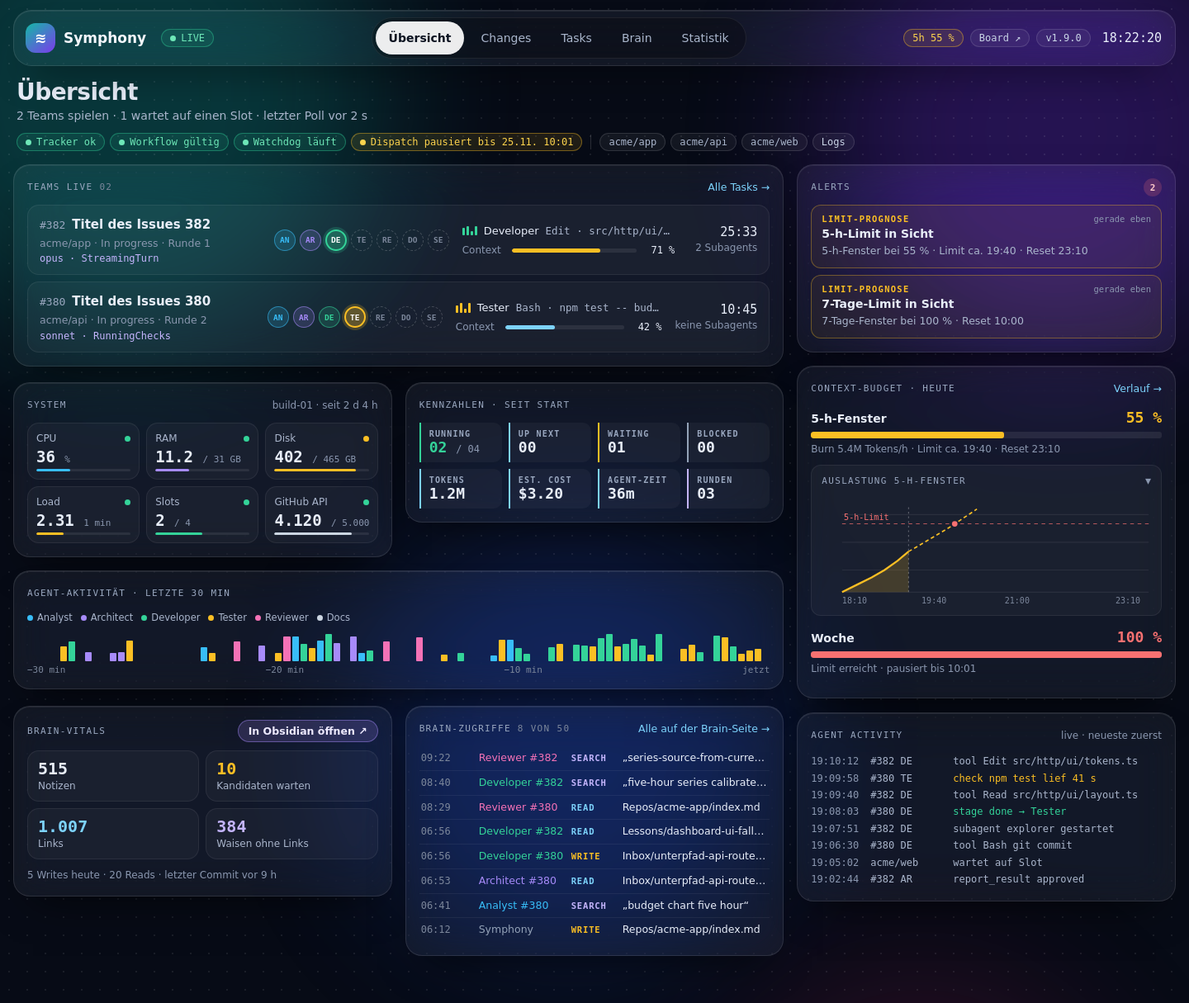
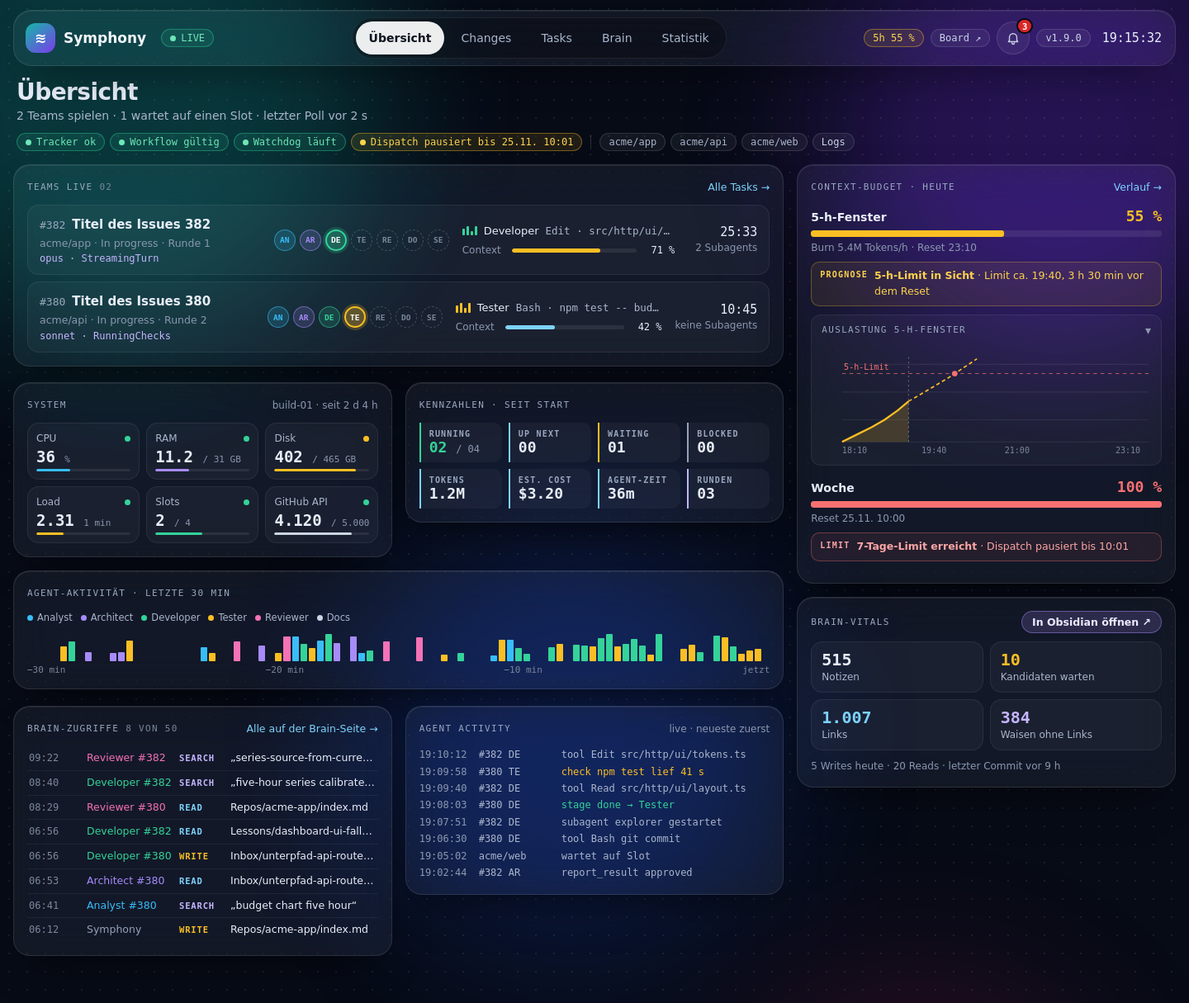
Konzept Masonry: Limit-Prognose im Context-Budget, Alerts hinter Glocke
Die Alerts-Karte der Übersicht entfällt. Die Limit-Prognosen (5-h- und
7-Tage-Limit in Sicht) stehen direkt beim jeweiligen Fenster im
Context-Budget, statt dort und als Alert doppelt zu erscheinen. Alle
anderen Alerts zeigt eine Glocke in der Kopfleiste auf jeder Seite an;
ein Klick öffnet ein Modal mit aktiven und zuletzt erledigten Alerts.

Mockup, Vorschaubilder (inkl. offenem Modal, Desktop und 390 px) und
Konzept (Version 2, neuer Bereich B7) sind angepasst.

diff --git a/docs/concepts/dashboard-masonry/mockup.html b/docs/concepts/dashboard-masonry/mockup.html
@@ -8,7 +8,8 @@
   Mockup A "Masonry-Raster", abgenommen am 2026-11-24. Gehört zu konzept.md im selben Ordner.
   Eigenständig, ohne Build. Farben und Glas-Styles stammen aus src/http/ui/palette.ts, tokens.ts und layout.ts.
   Nur Demo-Daten (acme/*), keine echten Repositories, Kosten oder Hostnamen.
-  URL-Parameter: ?state=live|idle|calm (Startzustand), ?clean=1 (Mockup-Leiste ausblenden, für Vorschaubilder).
+  URL-Parameter: ?state=live|idle|calm (Startzustand), ?alerts=1 (Glocken-Modal offen), ?clean=1 (Mockup-Leiste ausblenden, für Vorschaubilder).
+  Version 2 (2026-11-24): Limit-Prognosen stehen im Context-Budget, alle anderen Alerts hinter der Glocke in der Kopfleiste.
 -->
 <style>
   :root {
@@ -124,14 +125,46 @@
   .team-time { font: 15px var(--mono); }
   .team-subs { font-size: 12px; color: var(--fg-3); }
 
-  /* Alerts */
+  /* Glocke in der Kopfleiste: Zahl der aktiven Alerts, rot sobald ein roter Alert dabei ist; wackelt, solange ungesehen */
+  .bell { position: relative; width: 40px; height: 40px; padding: 0; display: grid; place-items: center; border-radius: 999px; cursor: pointer;
+    color: var(--fg-chip); background: rgba(255, 255, 255, .05); border: 1px solid rgba(255, 255, 255, .12); }
+  .bell:hover { border-color: rgba(255, 255, 255, .24); color: var(--fg-strong); }
+  .bell:focus-visible { outline: 2px solid var(--link); outline-offset: 2px; }
+  .bell svg { width: 18px; height: 18px; }
+  .bell .n { position: absolute; top: -5px; right: -5px; min-width: 19px; height: 19px; padding: 0 5px; border-radius: 999px; display: grid; place-items: center;
+    font: 600 10.5px var(--mono); color: #fff; background: #dc2626; border: 2px solid var(--bg); }
+  .bell .n.amber { background: #d97706; }
+  .bell.unseen svg { animation: ring 2.4s ease-in-out infinite; transform-origin: 50% 10%; }
+  @keyframes ring { 0%, 86%, 100% { transform: rotate(0); } 89% { transform: rotate(14deg); } 93% { transform: rotate(-12deg); } 96% { transform: rotate(6deg); } }
+
+  /* Alerts-Modal (native <dialog>, Esc schließt, Fokus zurück auf die Glocke) */
+  dialog.alerts-modal { width: min(560px, calc(100vw - 2 * var(--edge))); max-height: min(80vh, 720px); padding: 0; color: var(--fg);
+    background: #0f1729; border: 1px solid rgba(255, 255, 255, .14); border-radius: 20px; box-shadow: 0 30px 80px -20px rgba(0, 0, 0, .9); }
+  dialog.alerts-modal::backdrop { background: rgba(3, 6, 14, .62); -webkit-backdrop-filter: blur(4px); backdrop-filter: blur(4px); }
+  .am-head { display: flex; align-items: center; justify-content: space-between; gap: 10px; padding: 16px 18px 10px; }
+  .am-head h2 { margin: 0; font-size: 17px; font-weight: 600; }
+  .am-close { font: 12px var(--mono); color: var(--fg); background: rgba(255, 255, 255, .06); border: 1px solid rgba(255, 255, 255, .14); border-radius: 999px; padding: 5px 12px; cursor: pointer; }
+  .am-body { padding: 0 18px 18px; overflow-y: auto; max-height: calc(min(80vh, 720px) - 64px); display: grid; gap: 14px; }
+  .am-sec { display: grid; gap: 8px; }
   .alerts { display: flex; flex-direction: column; gap: 8px; margin: 0; padding: 0; list-style: none; }
-  .alert { padding: 10px 12px; border-radius: 12px; border: 1px solid rgba(251, 191, 36, .35); background: rgba(251, 191, 36, .06); }
-  .alert .k { font: 600 10.5px var(--mono); letter-spacing: .12em; text-transform: uppercase; color: var(--amber); display: flex; justify-content: space-between; }
+  .alert { display: block; padding: 10px 12px; border-radius: 12px; color: inherit; border: 1px solid rgba(251, 191, 36, .35); background: rgba(251, 191, 36, .06); }
+  .alert:hover { text-decoration: none; background: rgba(251, 191, 36, .1); }
+  .alert.red { border-color: rgba(248, 113, 113, .42); background: rgba(248, 113, 113, .07); }
+  .alert.red .k span:first-child { color: var(--red-300); }
+  .alert.done { border-color: rgba(255, 255, 255, .08); background: rgba(255, 255, 255, .03); opacity: .8; }
+  .alert.done .k span:first-child { color: var(--fg-3); }
+  .alert .k { font: 600 10.5px var(--mono); letter-spacing: .12em; text-transform: uppercase; color: var(--amber); display: flex; justify-content: space-between; gap: 8px; }
   .alert .k span:last-child { color: var(--fg-3); letter-spacing: 0; text-transform: none; font-weight: 400; }
   .alert b { display: block; font-size: 14px; font-weight: 600; margin: 2px 0 1px; }
   .alert p { margin: 0; font-size: 12.5px; color: var(--fg-2); }
-  .badge-n { min-width: 22px; height: 22px; border-radius: 999px; display: grid; place-items: center; font: 600 11px var(--mono); color: #fecaca; background: rgba(248, 113, 113, .2); }
+  .am-foot { font-size: 12px; color: var(--fg-3); margin: 0; }
+
+  /* Limit-Prognose direkt im Context-Budget (früher eigene Alert-Karten) */
+  .fc { display: flex; align-items: flex-start; gap: 8px; margin-top: 4px; padding: 7px 10px; border-radius: 10px; font-size: 12.5px;
+    color: var(--amber-300); background: rgba(251, 191, 36, .08); border: 1px solid rgba(251, 191, 36, .3); }
+  .fc.red { color: var(--red-300); background: rgba(248, 113, 113, .08); border-color: rgba(248, 113, 113, .35); }
+  .fc b { font-weight: 600; }
+  .fc .fc-k { font: 600 10px var(--mono); letter-spacing: .12em; text-transform: uppercase; white-space: nowrap; padding-top: 2px; }
 
   /* Context-Budget */
   .bud { display: grid; gap: 4px; margin-bottom: 10px; }
@@ -207,7 +240,7 @@
     .acc .op { display: none; }
     .acc .note { grid-column: 1 / -1; padding-left: 64px; margin-top: -4px; }
   }
-  @media (prefers-reduced-motion: reduce) { .eq i { animation: none; height: 8px; } }
+  @media (prefers-reduced-motion: reduce) { .eq i { animation: none; height: 8px; } .bell.unseen svg { animation: none; } }
 </style>
 </head>
 <body>
@@ -224,6 +257,7 @@
   <button type="button" data-state="live" aria-pressed="true">2 Teams laufen</button>
   <button type="button" data-state="idle" aria-pressed="false">Idle</button>
   <button type="button" data-state="calm" aria-pressed="false">Alerts leer</button>
+  <button type="button" id="mock-bell">Glocke öffnen</button>
   <span class="sp" id="mock-info">–</span>
 </div>
 
@@ -235,7 +269,12 @@
       <a class="nv on" href="#" aria-current="page">Übersicht</a><a class="nv" href="#">Changes</a><a class="nv" href="#">Tasks</a><a class="nv" href="#">Brain</a><a class="nv" href="#">Statistik</a>
     </div></nav>
     <div class="meta">
-      <span class="chip amber">5h 55 %</span><span class="chip">Board ↗</span><span class="chip version">v1.9.0</span>
+      <span class="chip amber">5h 55 %</span><span class="chip">Board ↗</span>
+      <button type="button" class="bell unseen" id="bell" aria-haspopup="dialog" aria-controls="alerts-modal" aria-label="Alerts: 3 aktiv, davon 1 Fehler">
+        <svg viewBox="0 0 24 24" fill="none" stroke="currentColor" stroke-width="1.8" stroke-linecap="round" stroke-linejoin="round" aria-hidden="true"><path d="M6 16V11a6 6 0 1 1 12 0v5l1.5 2h-15z"/><path d="M10 20a2 2 0 0 0 4 0"/></svg>
+        <span class="n" id="bell-n">3</span>
+      </button>
+      <span class="chip version">v1.9.0</span>
       <span class="clock num" id="clock">19:10:20</span>
     </div>
   </header>
@@ -297,21 +336,13 @@
       <p class="empty" id="teams-empty" hidden><span class="dot" style="background:var(--gray)"></span>Kein Team spielt gerade · 0 Slots belegt · 0 in der Queue</p>
     </section>
 
-    <section class="g card" aria-labelledby="t-alerts">
-      <div class="card-head"><h2 class="lbl" id="t-alerts">Alerts</h2><span class="badge-n" id="alerts-n">2</span></div>
-      <ul class="alerts" id="alerts-list">
-        <li class="alert"><div class="k"><span>Limit-Prognose</span><span>gerade eben</span></div><b>5-h-Limit in Sicht</b><p>5-h-Fenster bei 55 % · Limit ca. 19:40 · Reset 23:10</p></li>
-        <li class="alert"><div class="k"><span>Limit-Prognose</span><span>gerade eben</span></div><b>7-Tage-Limit in Sicht</b><p>7-Tage-Fenster bei 100 % · Reset 10:00</p></li>
-      </ul>
-      <p class="empty" id="alerts-empty" hidden><span class="dot"></span>Alles ruhig</p>
-    </section>
-
     <section class="g card" aria-labelledby="t-budget">
       <div class="card-head"><h2 class="lbl" id="t-budget">Context-Budget · heute</h2><a href="#">Verlauf →</a></div>
       <div class="bud">
         <div class="bud-top"><b>5-h-Fenster</b><span class="num" style="color:var(--amber)">55 %</span></div>
         <div class="bar lg"><i style="width:55%;background:var(--amber)"></i></div>
-        <span class="muted">Burn 5.4M Tokens/h · Limit ca. 19:40 · Reset 23:10</span>
+        <span class="muted">Burn 5.4M Tokens/h · Reset 23:10</span>
+        <div class="fc" role="status"><span class="fc-k">Prognose</span><span><b>5-h-Limit in Sicht</b> · Limit ca. 19:40, 3 h 30 min vor dem Reset</span></div>
       </div>
       <details class="gi graph" open>
         <summary><span class="lbl">Auslastung 5-h-Fenster</span></summary>
@@ -330,7 +361,8 @@
       <div class="bud">
         <div class="bud-top"><b>Woche</b><span class="num" style="color:var(--red)">100 %</span></div>
         <div class="bar lg"><i style="width:100%;background:var(--red)"></i></div>
-        <span class="muted">Limit erreicht · pausiert bis 10:01</span>
+        <span class="muted">Reset 25.11. 10:00</span>
+        <div class="fc red" role="status"><span class="fc-k">Limit</span><span><b>7-Tage-Limit erreicht</b> · Dispatch pausiert bis 10:01</span></div>
       </div>
     </section>
 
@@ -412,6 +444,29 @@
   </main>
 </div>
 
+<dialog class="alerts-modal" id="alerts-modal" aria-labelledby="am-title">
+  <div class="am-head"><h2 id="am-title">Alerts</h2><button type="button" class="am-close" id="am-close">Esc ✕</button></div>
+  <div class="am-body">
+    <section class="am-sec" id="am-active" aria-labelledby="am-active-t">
+      <h3 class="lbl" id="am-active-t">Aktiv · 3</h3>
+      <ul class="alerts">
+        <li><a class="alert red" href="#"><div class="k"><span>Fehler</span><span>vor 2 min</span></div><b>Tracker</b><p>GitHub GraphQL: 502 Bad Gateway beim Board-Abruf</p></a></li>
+        <li><a class="alert" href="#"><div class="k"><span>needs-human</span><span>vor 18 min</span></div><b>acme/app#377 · Export als CSV</b><p>Nach 2 Review-Runden an dich übergeben.</p></a></li>
+        <li><a class="alert" href="#"><div class="k"><span>Kandidaten-Rückstau</span><span>—</span></div><b>27 Kandidaten warten auf Review</b><p>Rückstau ab 25 Kandidaten.</p></a></li>
+      </ul>
+    </section>
+    <p class="empty" id="am-empty" hidden><span class="dot"></span>Alles ruhig. Kein aktiver Alert.</p>
+    <section class="am-sec" aria-labelledby="am-done-t">
+      <h3 class="lbl" id="am-done-t">Zuletzt erledigt</h3>
+      <ul class="alerts">
+        <li><a class="alert done" href="#"><div class="k"><span>Model-Hold</span><span>17:20–18:05</span></div><b>Modell fable</b><p>fable pausiert · Limit bis 18:05</p></a></li>
+        <li><a class="alert done" href="#"><div class="k"><span>Write-Clash</span><span>16:02–16:40</span></div><b>Decisions/ledger-double-entry.md</b><p>Reviewer #12 wollte 3 min nach Developer #11 schreiben – abgewiesen.</p></a></li>
+      </ul>
+    </section>
+    <p class="am-foot">Limit-Prognosen stehen im Context-Budget, nicht hier.</p>
+  </div>
+</dialog>
+
 <script>
 (() => {
   const $ = (id) => document.getElementById(id);
@@ -463,10 +518,22 @@
     $('subtitle').textContent = idle ? '0 Teams spielen · 0 warten auf einen Slot · letzter Poll vor 2 s'
       : '2 Teams spielen · 1 wartet auf einen Slot · letzter Poll vor 2 s';
     const calm = s === 'calm';
-    $('alerts-list').hidden = calm; $('alerts-empty').hidden = !calm; $('alerts-n').hidden = calm;
+    $('am-active').hidden = calm; $('am-empty').hidden = !calm; $('bell-n').hidden = calm;
+    $('bell').classList.toggle('unseen', !calm);
+    $('bell').setAttribute('aria-label', calm ? 'Alerts: keine aktiven' : 'Alerts: 3 aktiv, davon 1 Fehler');
   }
   for (const b of document.querySelectorAll('[data-state]')) b.addEventListener('click', () => setState(b.dataset.state));
   setState(['live', 'idle', 'calm'].includes(params.get('state')) ? params.get('state') : 'live');
+
+  // Glocke: öffnet das Modal; danach gelten die aktiven Alerts als gesehen (kein Wackeln mehr, die Zahl bleibt).
+  const modal = $('alerts-modal');
+  const openAlerts = () => { if (!modal.open) modal.showModal(); $('bell').classList.remove('unseen'); };
+  $('bell').addEventListener('click', openAlerts);
+  $('mock-bell').addEventListener('click', openAlerts);
+  $('am-close').addEventListener('click', () => modal.close());
+  modal.addEventListener('click', (e) => { if (e.target === modal) modal.close(); });
+  modal.addEventListener('close', () => $('bell').focus());
+  if (params.get('alerts') === '1') openAlerts();
 
   // Uhr und Laufzeiten ticken wie beim Poll; die Karten bleiben dabei stehen.
   const pad = (n) => String(n).padStart(2, '0');

diff --git a/docs/concepts/dashboard-masonry/konzept.md b/docs/concepts/dashboard-masonry/konzept.md
@@ -1,16 +1,19 @@
 # Konzept: Übersicht in voller Breite mit Masonry-Raster
 
-Status: Mockup A abgenommen am 2026-11-24 · Version des Konzepts: 1
+Status: Mockup A abgenommen am 2026-11-24 · Version des Konzepts: 2 (Alerts-Glocke, Limit-Prognose im Context-Budget)
 
-Mockup (verbindliche Vorlage): [mockup.html](mockup.html) mit drei Zuständen (`?state=live|idle|calm`)
+Mockup (verbindliche Vorlage): [mockup.html](mockup.html) mit drei Zuständen (`?state=live|idle|calm`) und offenem
+Alerts-Modal (`?alerts=1`)
 
 | Vorschau | Datei |
 |---|---|
 | 2560 px, 6 Spalten | [preview-2560.png](preview-2560.png) |
 | 1920 px, 4 Spalten | [preview-1920.png](preview-1920.png) |
+| 1920 px, Alerts-Modal offen | [preview-1920-alerts.png](preview-1920-alerts.png) |
 | 1920 px, kein Team läuft | [preview-1920-idle.png](preview-1920-idle.png) |
 | 1440 px, 3 Spalten | [preview-1440.png](preview-1440.png) |
 | 390 px, 1 Spalte | [preview-390.png](preview-390.png) |
+| 390 px, Alerts-Modal offen | [preview-390-alerts.png](preview-390-alerts.png) |
 | Ist-Zustand v1.8.0 (Demo-Daten, 1920 px) | [ist-1920.png](ist-1920.png) |
 
 ## Ziel
@@ -30,9 +33,15 @@ Die Übersicht (`/`) nutzt die ganze Bildschirmbreite und wird deutlich kürzer:
 4. **Keine Doppelung:**
    - Ein laufendes Issue erscheint nur noch einmal, als Zeile in „Teams live“.
    - Der Abschnitt „Running“ mit den großen Agent-Karten entfällt.
+5. **Alerts hinter einer Glocke:**
+   - Die Alerts-Karte der Übersicht entfällt.
+   - Die Limit-Prognosen („5-h-Limit in Sicht“, „7-Tage-Limit in Sicht“) stehen direkt im Context-Budget beim
+     jeweiligen Fenster.
+   - Alle anderen Alerts zeigt eine Glocke in der Kopfleiste an, auf jeder Seite. Ein Klick öffnet ein Modal mit den
+     aktiven und den zuletzt erledigten Alerts.
 
 Messbar: Bei 1920×1080 und den Demo-Daten (`node scripts/demo.ts`) ist die Übersicht höchstens zwei Bildschirmhöhen
-hoch. Heute sind es 4465 px, das Mockup braucht 1071 px.
+hoch. Heute sind es 4465 px, das Mockup braucht unter 1000 px.
 
 Zielgruppe ist der Betreiber der Instanz (eine Person, Desktop zuerst, Handy muss funktionieren).
 
@@ -48,6 +57,8 @@ Gemessen auf der Live-Instanz bei 2560×1215 px:
 | Lücke unter Alerts | ≈ 340 px leer | `.ov-row` ist ein Flex-Wrap (`src/http/dashboard.ts:177`): Alerts 258 px neben Budget 598 px |
 | Teams live und Running | dasselbe Issue zweimal | `#teams-section` und `#running-section` (`src/http/dashboard.ts:241-257`), siehe `ist-1920.png` |
 | leere Abschnitte | volle Breite, je ≈ 90–200 px | „Kein Team spielt gerade“, „No agents running“, leerer Aktivitäts-Strip |
+| Limit-Prognose doppelt | Alert-Karte „5-h-Limit in Sicht“ neben dem Context-Budget, das dieselbe Prognose zeigt | `alerts()` in `src/http/alerts.ts:119-132` erzeugt die Art `budget` aus demselben `/api/v1/budget`-Bericht |
+| Alerts nur auf der Übersicht | Auf Changes, Tasks, Brain und Statistik ist kein Alert zu sehen | `#alerts` steht nur in `DASHBOARD_HTML` (`src/http/dashboard.ts:231`). Die Shell holt `/api/v1/budget` dagegen schon auf jeder Seite (`src/http/ui/layout.ts:356`). |
 
 Der Aufbau der Übersicht steht in `DASHBOARD_HTML` (`src/http/dashboard.ts:207-283`). Die Abschnitte kommen aus:
 
@@ -76,7 +87,13 @@ Die Seite pollt `/api/v1/state` alle 2 s. Die HTTP-Tests prüfen Quelltext-Strin
 | Masonry-Technik | Jede Karte belegt `grid-row-end: span ceil((Höhe + Abstand) / 4px)`. Ein `ResizeObserver` je Karte rechnet nur neu, wenn sich die Höhe ändert. `grid-auto-flow: row dense` füllt Löcher neben breiten Karten. **Nicht** CSS-`columns`: Dort springen Karten beim 2-s-Poll zwischen Spalten. **Nicht** `grid-template-rows: masonry`: In Chrome gibt es das nicht. |
 | Spalten | ergeben sich aus der Breite: 1 Spalte bei 390 px, 3 bei 1440 px, 4 bei 1920 px, 6 bei 2560 px |
 | Breite Karten | „Teams live“ und „Agent-Aktivität“ belegen ab 1220 px Viewport zwei Spalten (`.wide`). Alle anderen Karten sind eine Spalte breit. |
-| Reihenfolge | DOM-Reihenfolge = Lesereihenfolge wie im Mockup: Teams live, Alerts, Context-Budget, System, Kennzahlen, Agent-Aktivität, Brain-Vitals, Brain-Zugriffe, Agent activity. `dense` darf spätere kleine Karten in frühere Lücken ziehen. Fokus- und Screenreader-Reihenfolge folgen dem DOM. |
+| Reihenfolge | DOM-Reihenfolge = Lesereihenfolge wie im Mockup: Teams live, Context-Budget, System, Kennzahlen, Agent-Aktivität, Brain-Vitals, Brain-Zugriffe, Agent activity. `dense` darf spätere kleine Karten in frühere Lücken ziehen. Fokus- und Screenreader-Reihenfolge folgen dem DOM. |
+| Alerts-Karte | Die Karte `#alerts` entfällt auf der Übersicht. Die Ableitung `alerts(state, budget, brain)` in `alerts.ts` bleibt die eine Quelle für alle Alerts. |
+| Limit-Prognose | Alerts der Art `budget` erscheinen nicht mehr in der Alert-Liste. Ein Prognose-Hinweis steht im Context-Budget direkt unter dem Balken des jeweiligen Fensters: amber „Prognose · 5-h-Limit in Sicht · Limit ca. 19:40, 3 h 30 min vor dem Reset“, rot „Limit · 7-Tage-Limit erreicht · Dispatch pausiert bis 10:01“. Er erscheint unter derselben Bedingung wie heute der Alert (`w.alert === true` mit `forecast.eta`) bzw. wenn das Fenster 100 % erreicht hat. Mit `role="status"` liest ein Screenreader ihn vor. |
+| Glocke | Ein Glocken-Knopf in der Kopfleiste zwischen „Board“ und Version, auf **allen** Seiten der Shell. Die Zahl im Badge ist die Zahl der aktiven Alerts (ohne `budget`). Das Badge ist rot, sobald ein roter Alert (Fehler, Write-Clash) dabei ist, sonst amber. Ohne aktive Alerts gibt es kein Badge. Neue, noch ungesehene Alerts lassen die Glocke kurz wackeln. Nach dem Öffnen des Modals gelten sie als gesehen, gemerkt per `localStorage` über Art + Titel. `prefers-reduced-motion` schaltet das Wackeln ab. `aria-label` nennt Zahl und Art („Alerts: 3 aktiv, davon 1 Fehler“). |
+| Alerts-Modal | natives `<dialog>` mit `showModal()`: Esc und Klick auf den Hintergrund schließen es, der Fokus geht zurück auf die Glocke. Inhalt: „Aktiv · N“ (die Karten wie heute aus `renderAlerts`, neueste zuerst, jede ein Link) und „Zuletzt erledigt“ (bis zu 10 Alerts, die aus der Liste verschwunden sind, mit Zeitraum „von–bis“). Ohne aktive Alerts steht dort „Alles ruhig. Kein aktiver Alert.“ Fußzeile: „Limit-Prognosen stehen im Context-Budget, nicht hier.“ |
+| Alerts-Verlauf | „Zuletzt erledigt“ entsteht im Browser: Der Client vergleicht die Alert-Liste zwischen zwei Polls und merkt sich verschwundene Einträge in `localStorage` (max. 10, älter als 24 h fällt heraus). Es gibt keine neue API und keine Ablage auf dem Server. |
+| Alerts auf Unterseiten | Die Übersicht speist die Glocke aus ihrem Poll. Die anderen Seiten holen in der Shell alle 30 s `/api/v1/state` (gibt es schon), `/api/v1/budget` (holt die Shell schon) und, wenn das Brain aktiv ist, die Brain-Daten wie `loadBrainAlerts` und rechnen mit demselben `alerts()`. |
 | Running | Der Abschnitt `#running-section` entfällt ersatzlos, mitsamt den großen Agent-Karten. |
 | Teams live | Die Zeile je Issue bleibt wie heute (Avatare, aktive Rolle, Aktion, Context-Balken, Laufzeit, Subagents). Neu ist eine dritte Kopfzeile **Modell · Phase** aus der früheren Running-Karte (z. B. `opus · StreamingTurn`). Die ganze Zeile verlinkt auf die Team-Ansicht, dort liegt der Trace. Die Zeile „x Slots belegt · y in der Queue“ zieht in den leeren Zustand von Teams live bzw. in die System-Kachel „Slots“. |
 | Kopf | Repositories-Leiste (`#repositories`) und Dispatch-Gate (`#dispatch-gate`) sind keine eigenen Balken mehr. Sie werden Chips in der Statuszeile neben Tracker, Workflow und Watchdog. Die Dispatch-Pause ist ein amber Chip mit dem Grund im `title`. |
@@ -95,6 +112,7 @@ Die Seite pollt `/api/v1/state` alle 2 s. Die HTTP-Tests prüfen Quelltext-Strin
 - ein neues Layout der Unterseiten (Changes, Tasks, Brain, Statistik, Team-Ansicht) über die volle Breite hinaus
 - helles Theme
 - die Behebung des 6-Verbindungen-Staus beim Verlassen der Übersicht (eigenes Thema)
+- ein Alert-Verlauf auf dem Server, Browser-Benachrichtigungen (Notification API), Töne oder neue Alert-Arten
 
 ## Funktionsbereiche
 
@@ -139,7 +157,11 @@ Abnahme:
   - Repositories und Dispatch-Gate als Chips (`overview-head.ts`)
   - `#repositories` und `#dispatch-gate` entfallen als eigene Abschnitte
 - System-Karte kompakt (3 × 2), Kennzahlen-Karte kompakt (4 × 2, mit „Runden“)
-- Context-Budget: Verlaufsgraph in `<details>` mit gemerktem Zustand, „Tokens je Rolle“ auf die Statistik-Seite
+- Context-Budget:
+  - Verlaufsgraph in `<details>` mit gemerktem Zustand, „Tokens je Rolle“ auf die Statistik-Seite
+  - Prognose-Hinweis je Fenster unter dem Balken (siehe „Limit-Prognose“). Die Texte kommen aus derselben
+    Berechnung wie bisher in `alerts.ts` (`BUDGET_TITLE`, `BUDGET_WINDOW_NAME`, `forecast.eta`, `resets_at`), damit
+    Budget-Karte und frühere Alerts nicht auseinanderlaufen. In der Zeile darüber steht dann nur noch Burn und Reset.
 - Agent activity: feste Höhe, einzeilige Einträge
 
 Abnahme:
@@ -147,7 +169,9 @@ Abnahme:
   2560 px.
 - Demo-Daten, 1920×1080: Seitenhöhe ≤ 2160 px
 - Kein Inhalt geht verloren, außer dem, was diese Entscheidungen ausdrücklich verschieben: Sparklines und „Tokens je
-  Rolle“ auf die Statistik-Seite, Brain-Filter auf die Brain-Seite.
+  Rolle“ auf die Statistik-Seite, Brain-Filter auf die Brain-Seite, Alerts hinter die Glocke (B7).
+- Bei einem 5-h-Fenster mit `alert: true` zeigt die Budget-Karte den amber Prognose-Hinweis. Bei 100 % im
+  Wochenfenster zeigt sie den roten Hinweis. Ohne Prognose gibt es keinen Hinweis.
 
 ### B4 Running entfernen, Teams live erweitern
 
@@ -181,8 +205,9 @@ Abnahme:
 ### B6 Doku und Screenshots
 
 - `docs/screenshots/`: neue Aufnahmen der Übersicht mit Demo-Daten bei 2560, 1440 und 390 px. Überholte Bilder, die
-  den Running-Abschnitt oder die alte Breite zeigen, ersetzen oder entfernen (`e1-3-*`, `e1-8-*`, `e2-7-*`,
-  `e2-8-overview-*`, `overview-brain-*`, `e4-6-budget-panel*`), sofern sie noch verlinkt sind.
+  den Running-Abschnitt, die Alerts-Karte oder die alte Breite zeigen, ersetzen oder entfernen (`e1-3-*`, `e1-8-*`,
+  `e2-7-*`, `e2-8-*`, `overview-brain-*`, `e4-5-budget-treffer-alert.png`, `e4-6-budget-panel*`), sofern sie noch
+  verlinkt sind. Neu kommen Glocke und Alerts-Modal dazu (Desktop und 390 px).
 - `docs/preview.gif` neu aufnehmen. Nur Demo-Daten (`node scripts/demo.ts`), nie die Live-Instanz.
 - `docs/usage.md`, `docs/overview.md` und `README.md`/`README.de.md` auf Aussagen zu „Running“ und zum Aufbau der
   Übersicht prüfen
@@ -191,6 +216,35 @@ Abnahme:
 Abnahme:
 - In der Doku verweist kein Bild und kein Text mehr auf den Running-Abschnitt.
 - Alle neuen Bilder zeigen Demo-Daten (`acme/*`).
+
+### B7 Alerts-Glocke und Modal
+
+`src/http/ui/layout.ts` (Kopfleiste, auf allen Seiten) und `src/http/alerts.ts`:
+
+- Glocken-Knopf in der Kopfleiste mit Badge, Farbe nach dem schwersten Alert, Wackeln bei ungesehenen Alerts
+  (siehe „Entscheidungen“)
+- Alerts-Modal als `<dialog>` mit den Abschnitten „Aktiv“ und „Zuletzt erledigt“. Die Karten baut weiter
+  `renderAlerts`.
+- `alerts()` liefert die Art `budget` nicht mehr in die Glocke. Die Budget-Karte bekommt die Prognose aus derselben
+  Berechnung (B3).
+- Datenquelle: auf der Übersicht ihr Poll, auf den anderen Seiten ein Shell-Poll alle 30 s (State, Budget,
+  Brain-Alerts)
+- Client-Verlauf „Zuletzt erledigt“ in `localStorage` (max. 10, 24 h)
+- Tests anpassen, die die Alerts-Karte der Übersicht prüfen:
+  - `test/alerts-panel.test.ts`, `test/alerts-panel-page.test.ts`, `test/alerts-cards.test.ts`,
+    `test/alerts-card-source.test.ts`, `test/alerts-brain.test.ts`
+  - `test/overview-head.test.ts`, `test/overview-brain*.test.ts`, `test/http.test.ts`,
+    `test/watchdog-heartbeat.test.ts`
+  - Die Logik-Tests von `alerts()` bleiben. Neu sind Tests für Badge-Zahl und -Farbe, gesehen/ungesehen und den
+    Verlauf im Fake-DOM.
+
+Abnahme:
+- Auf jeder Seite der Shell zeigt die Glocke dieselbe Zahl.
+- Klick, Enter oder Leertaste auf die Glocke öffnen das Modal. Esc oder ein Klick auf den Hintergrund schließen es,
+  der Fokus steht danach wieder auf der Glocke.
+- Ein Alert, der zwischen zwei Polls verschwindet, steht danach unter „Zuletzt erledigt“ mit Zeitraum.
+- Eine Limit-Prognose erscheint nie in der Glocke, nur im Context-Budget.
+- Bei 390 px passt das Modal in die Breite (Rand 12 px) und scrollt innen.
 
 ## Nicht-funktionale Anforderungen
 
@@ -208,13 +262,16 @@ Abnahme:
 
 1. B1 Shell in voller Breite und B2 Masonry-Baustein (unabhängig voneinander)
 2. B3 Übersicht im Raster (braucht B1 und B2)
-3. B4 Running entfernen und B5 Brain-Zugriffe (brauchen B3, untereinander unabhängig)
+3. B4 Running entfernen, B5 Brain-Zugriffe und B7 Alerts-Glocke (brauchen B3, untereinander unabhängig; B7 braucht
+   aus B3 die Prognose im Context-Budget, bevor `budget` aus der Alert-Liste fällt)
 4. B6 Doku und Screenshots (zuletzt)
 
 ## Offene Fragen
 
-1. **Kartenreihenfolge:** Das Mockup stellt Teams live, Alerts und Budget nach vorn. Sollen Alerts bei einem roten
-   Alert ganz nach vorn rücken? Vorschlag: nein, die Reihenfolge bleibt fest, damit nichts springt.
-2. **Verlaufsgraph:** Standard offen. Soll er auf dem Handy (≤ 640 px) standardmäßig zu sein? Vorschlag: ja.
-3. **Breite Karten:** Ab 2560 px könnte Teams live drei Spalten belegen, wenn mehr als drei Teams laufen. Vorschlag:
+1. **Kartenreihenfolge:** Das Mockup stellt Teams live und Context-Budget nach vorn. Vorschlag: Die Reihenfolge
+   bleibt fest, damit nichts springt.
+2. **Roter Alert:** Soll ein neuer roter Alert (Fehler, Write-Clash) das Modal von selbst öffnen? Vorschlag: nein,
+   nur Badge rot und Glocke wackelt.
+3. **Verlaufsgraph:** Standard offen. Soll er auf dem Handy (≤ 640 px) standardmäßig zu sein? Vorschlag: ja.
+4. **Breite Karten:** Ab 2560 px könnte Teams live drei Spalten belegen, wenn mehr als drei Teams laufen. Vorschlag:
    erst einmal fest zwei Spalten.
